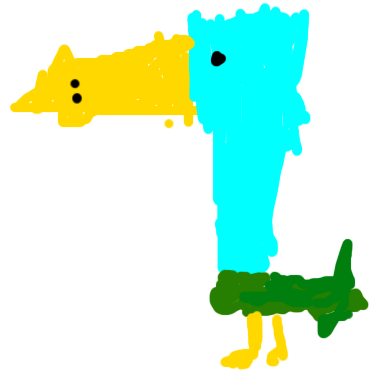
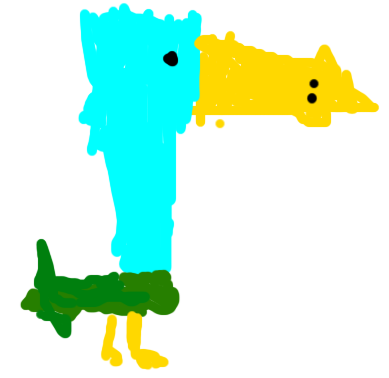
Moving Buntemoewe, added Moewenball!

diff --git a/robot-e.py b/robot-e.py
@@ -3,23 +3,40 @@ from PIL import ImageTk, Image
 
 class App():
 	def __init__(self):
-		self.root = Tk()
-		self.canvas = Canvas(self.root, width = 800, height = 600)
+		self.shotSpeed = 3
+		self.doveSpeed = 2
+		self.maxY = 600
 		
+		self.root = Tk()
+		self.canvas = Canvas(self.root, width = 800, height = 600)		
+
+		# Setup player
 		img = ImageTk.PhotoImage(Image.open("pinguin-man.png"))		
-		self.xPos = 100
+		self.xPos = 605
 		self.yPos = 100
-		self.xPrev = 100
-		self.yPrev = 100
+		self.xPrev = self.xPos
+		self.yPrev = self.yPos
 		self.arrowUp = False
 		self.arrowDown = False
 		self.arrowLeft = False
 		self.arrowRight = False
 		self.player = self.canvas.create_image(self.xPos, self.yPos, image=img)	
 
+		
+		# Setup enemy
+		doveImg =  ImageTk.PhotoImage(Image.open("buntemoewe.png"))
+		self.doveX = 40
+		self.doveY = 120
+		self.dove = self.canvas.create_image(self.doveX, self.doveY, image=doveImg)
+		self.moveDown = True
+
+		# Setup round
 		self.roundImage = ImageTk.PhotoImage(Image.open("feuerball.png"))
 		self.round = None
+		self.roundX = 0
+		self.roundY = 0
 
+		# Key binding
 		self.canvas.bind("<KeyPress>", self.keydown)
 		self.canvas.bind("<KeyRelease>", self.keyup)
 		
@@ -39,10 +56,28 @@ class App():
 		if self.arrowRight:
 			self.xPos += 1
 
-		self.canvas.move(self.player, self.xPos - self.xPrev, self.yPos- self.yPrev)
+		self.canvas.move(self.player, self.xPos - self.xPrev, self.yPos - self.yPrev)
 		self.xPrev = self.xPos
 		self.yPrev = self.yPos
 		self.root.after(15, self.update_clock)
+
+		if self.round != None:
+			self.canvas.move(self.round, -self.shotSpeed, 0)
+			self.roundX -= self.shotSpeed
+
+		doveDelta = self.doveSpeed = 2
+		if self.moveDown:
+			if self.doveY > self.maxY:
+				self.moveDown = False
+		else:
+			doveDelta = -self.doveSpeed
+			if self.doveY < 0:
+				self.moveDown = True
+
+		self.canvas.move(self.dove, 0, doveDelta)
+		self.doveY += doveDelta
+
+
 
 	def keyup(self, e):
 		if e.keycode == 38:
@@ -55,6 +90,8 @@ class App():
 			self.arrowLeft = False
 		if e.keycode == 32:
 			self.round = self.canvas.create_image(self.xPos, self.yPos, image=self.roundImage)
+			self.roundX = self.xPos
+			self.roundY = self.yPos
 
 
 	def keydown(self, e):
